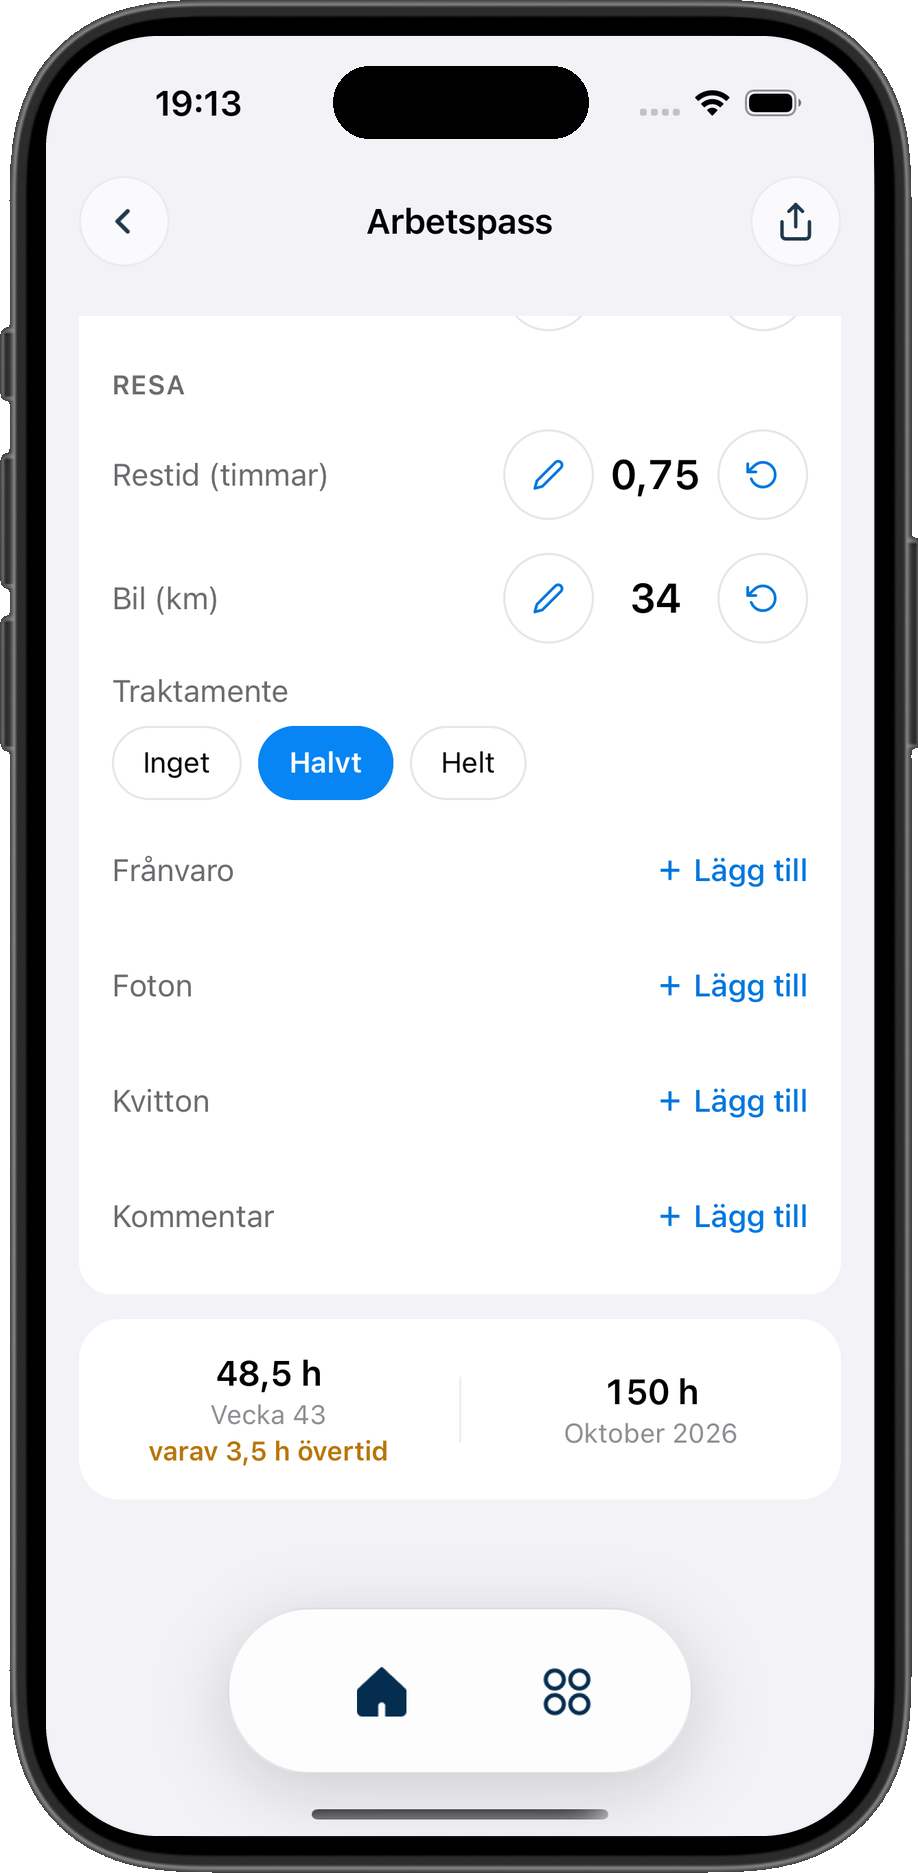
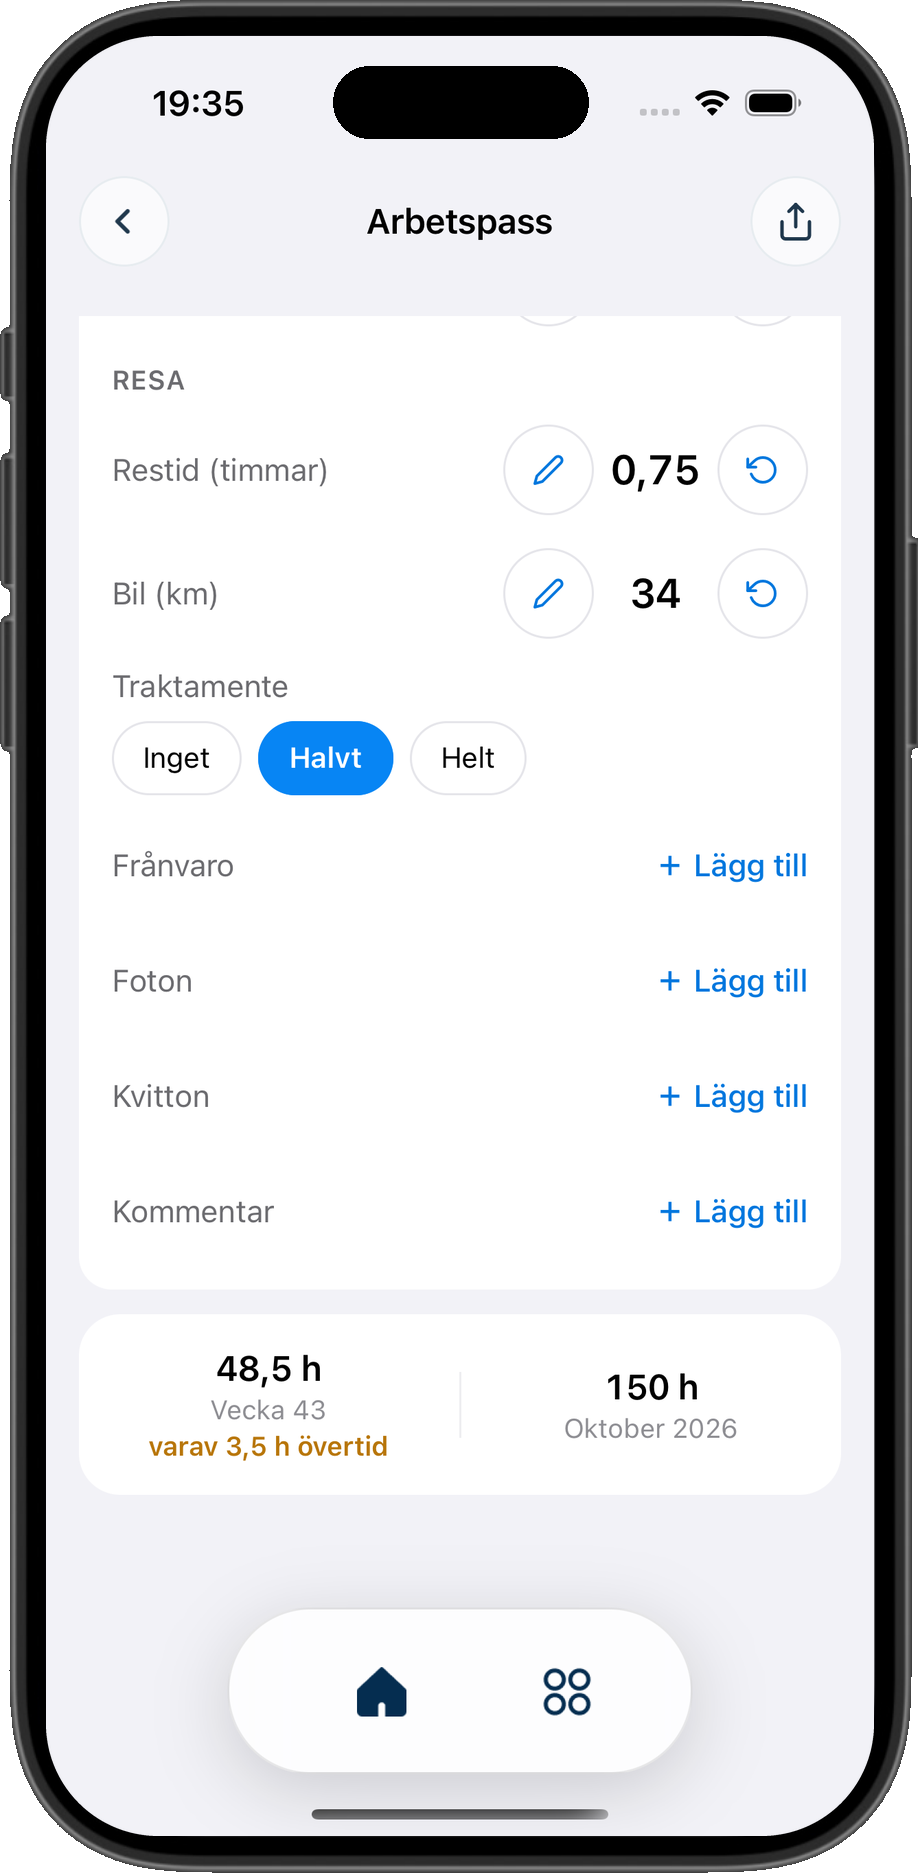
docs(deck): Lucas deck — final Manuell app design, PDF rebuilt
Claude-Session: https://claude.ai/code/session_01BHy9U5JeQwZEhSA71ePFpu

diff --git a/docs/presentations/lucas-svea-flode/slides/steg2.html b/docs/presentations/lucas-svea-flode/slides/steg2.html
@@ -3,6 +3,6 @@
 <div style="display:flex;gap:16px;align-items:center"><p style="width:44px;height:44px;flex:none;border-radius:50%;background:rgba(69,179,107,.14);color:#45B36B;font-size:24px;font-weight:600;line-height:44px;text-align:center">2</p><p style="font-size:26px;color:#0A1828"><b>Appen</b>&nbsp;<span style="color:#2394FF">›</span>&nbsp;<span style="color:#5B7591">Arbetspass</span>&nbsp;<span style="color:#2394FF">›</span>&nbsp;<b>Manuell</b></p></div>
 <h2 style="font-family:-apple-system, BlinkMacSystemFont, 'SF Pro Display', 'Segoe UI', Inter, sans-serif;font-size:40px;font-weight:500;letter-spacing:-0.02em;line-height:1.1">Arbetaren fyller i dagen</h2>
 </div>
-<div style="display:flex;gap:96px;justify-content:center"><img src="/_blob/07405bdb80c17f519082403a1a0f8bdf" alt="Appen: Arbetstimmar markerat, övertid, OB och restid" style="width:343px;height:700px;object-fit:contain"><img src="/_blob/715c1e97e724c2f2395cfa7e2efc8b15" alt="Appen: restid, bil, traktamente, frånvaro, foton, kvitton, kommentar" style="width:343px;height:700px;object-fit:contain"></div>
+<div style="display:flex;gap:96px;justify-content:center"><img src="/_blob/2e369a3c25da08e846a6b6ffa3010c09" alt="Appen: Arbetstimmar markerat, övertid, OB och restid" style="width:343px;height:700px;object-fit:contain"><img src="/_blob/a74721822035f3064f9b6b49317fb9d1" alt="Appen: restid, bil, traktamente, frånvaro, foton, kvitton, kommentar" style="width:343px;height:700px;object-fit:contain"></div>
 <aside>Рабочий заполняет день: часы, övertid, OB, restid, bil, traktamente, frånvaro, фото, чеки, комментарий.</aside>
 </section>

diff --git a/docs/presentations/lucas-svea-flode/slides/cover.html b/docs/presentations/lucas-svea-flode/slides/cover.html
@@ -1,6 +1,6 @@
 <section id="cover" data-transition="fade" style="background:#0A1828;color:#F1F6FB;font-family:-apple-system, BlinkMacSystemFont, 'SF Pro Display', 'Segoe UI', Inter, sans-serif;padding:128px 128px 160px;display:flex;flex-direction:column;justify-content:center;gap:40px">
 <div style="position:absolute;left:0;top:0;width:24px;height:1080px;background:#2394FF"></div>
-<img src="/_blob/d73e14c7e886ed6c221fcf5b7700656d" alt="ByggExp-appen: arbetarens dag med arbetstimmar, övertid, OB och resa" style="position:absolute;left:1260px;top:90px;width:470px;height:900px;object-fit:contain">
+<img src="/_blob/f3df9aab116b56ca4cce15657dabb427" alt="ByggExp-appen: arbetarens dag med arbetstimmar, övertid, OB och resa" style="position:absolute;left:1260px;top:90px;width:470px;height:900px;object-fit:contain">
 <p style="font-size:28px;font-weight:600;letter-spacing:4px;text-transform:uppercase;color:#2394FF">ByggExp · Svea Ställningsallians AB</p>
 <h1 style="font-family:-apple-system, BlinkMacSystemFont, 'SF Pro Display', 'Segoe UI', Inter, sans-serif;font-size:104px;font-weight:600;letter-spacing:-0.02em;line-height:1.05;color:#F1F6FB;width:1040px">Från dagrapport till Fortnox Lön</h1>
 <p style="position:absolute;left:128px;bottom:64px;width:1000px;font-size:24px;color:#94A8BC">För Lucas Sahindal · Oktober 2026</p>
